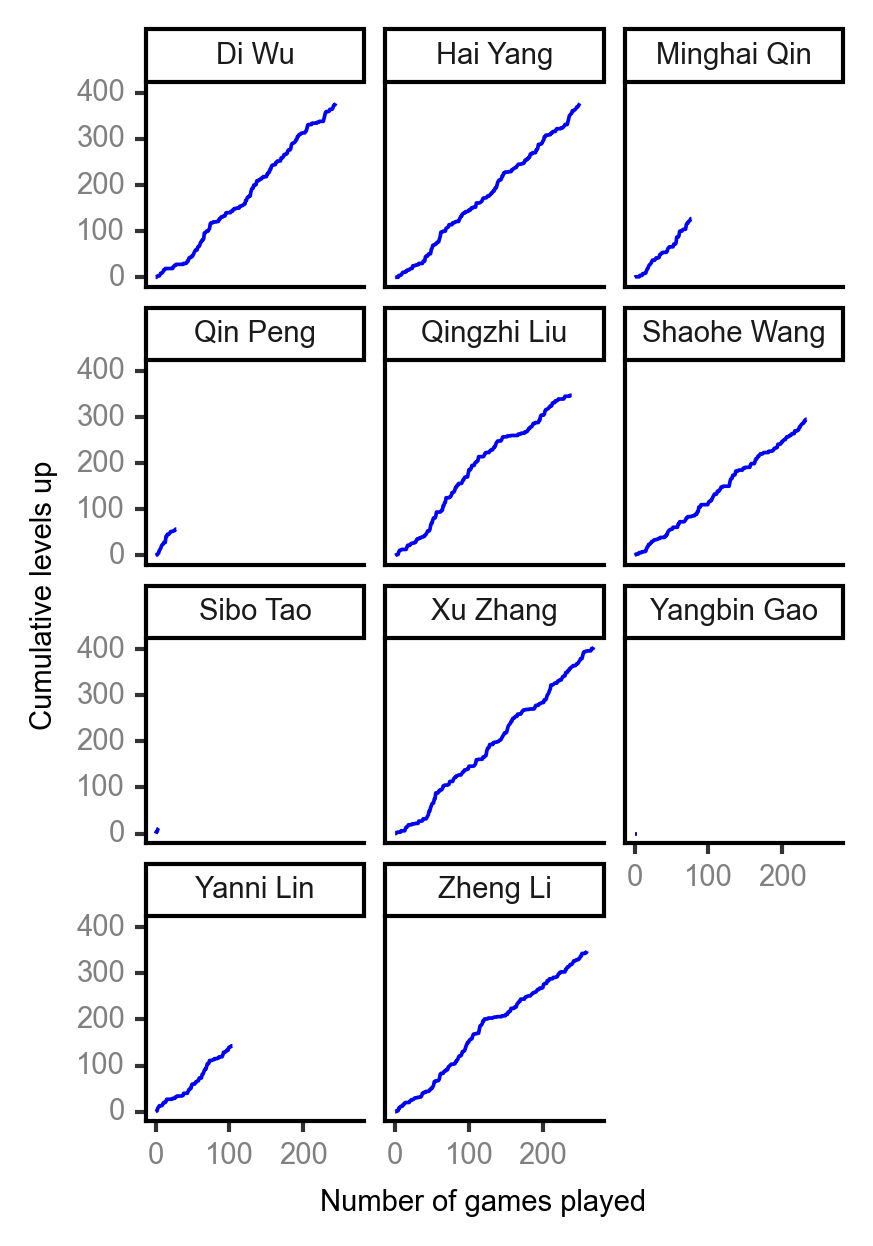
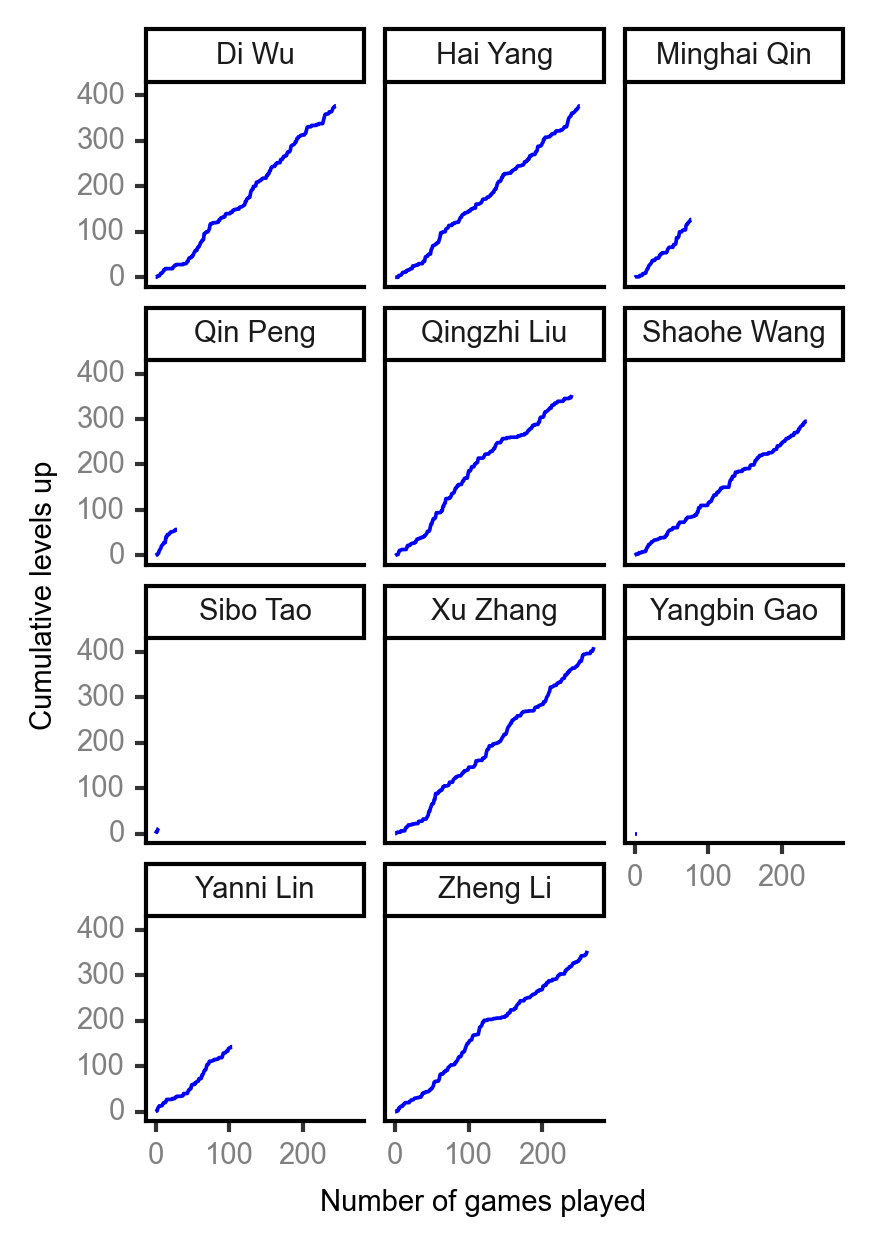
update player stats

diff --git a/player_stats.md b/player_stats.md
@@ -14,15 +14,15 @@ date: 2021-05-15
 
 | <br><br><br>Rank | <br><br><br>Player | <br> Lifetime <br> levels <br> up | <br><br> Winning <br> rate | <br> Average <br> levels <br> up | <br> Total <br> games <br> played | Games <br> played <br> as <br> MVP | Games <br> played <br> as <br> dealer | N_games <br> short <br> staffed <br> as dealer | Winning <br> rate <br> as <br> dealer |
 |:---:|:---:|:---:|:---:|:---:|:---:|:---:|:---:|:---:|:---:|
-| 1 | Xu <br> Zhang | 410 | 54.1% | 2.81 | 270 | 19 | 50 | 2 | 52.0% |
-| 2 | Hai <br> Yang | 377 | 52.2% | 2.88 | 251 | 24 | 46 | 1 | 54.3% |
-| 3 | Di <br> Wu | 377 | 48.6% | 3.17 | 245 | 28 | 42 | 0 | 45.2% |
-| 4 | Zheng <br> Li | 354 | 52.9% | 2.57 | 261 | 11 | 41 | 1 | 58.5% |
-| 5 | Qingzhi <br> Liu | 353 | 49.6% | 2.97 | 240 | 12 | 41 | 4 | 46.3% |
-| 6 | Shaohe <br> Wang | 295 | 45.3% | 2.78 | 234 | 12 | 38 | 2 | 44.7% |
+| 1 | Xu <br> Zhang | 410 | 53.9% | 2.81 | 271 | 19 | 51 | 2 | 51.0% |
+| 2 | Hai <br> Yang | 381 | 52.4% | 2.89 | 252 | 24 | 46 | 1 | 54.3% |
+| 3 | Di <br> Wu | 377 | 48.4% | 3.17 | 246 | 28 | 42 | 0 | 45.2% |
+| 4 | Zheng <br> Li | 358 | 53.1% | 2.58 | 262 | 11 | 41 | 1 | 58.5% |
+| 5 | Qingzhi <br> Liu | 357 | 49.8% | 2.98 | 241 | 12 | 41 | 4 | 46.3% |
+| 6 | Shaohe <br> Wang | 295 | 45.1% | 2.78 | 235 | 13 | 38 | 2 | 44.7% |
 | 7 | Yanni <br> Lin | 144 | 47.6% | 2.88 | 105 | 10 | 11 | 2 | 36.4% |
 | 8 | Minghai <br> Qin | 127 | 52.6% | 3.10 | 78 | 1 | 11 | 1 | 72.7% |
-| 9 | Qin <br> Peng | 57 | 65.5% | 3.00 | 29 | 3 | 3 | 0 | 66.7% |
+| 9 | Qin <br> Peng | 61 | 66.7% | 3.05 | 30 | 3 | 3 | 0 | 66.7% |
 | 10 | Sibo <br> Tao | 14 | 80.0% | 3.50 | 5 | 0 | 0 | 0 | 0.0% |
 | 11 | Yangbin <br> Gao | 0 | 0.0% | 0.00 | 4 | 0 | 0 | 0 | 0.0% |
 
